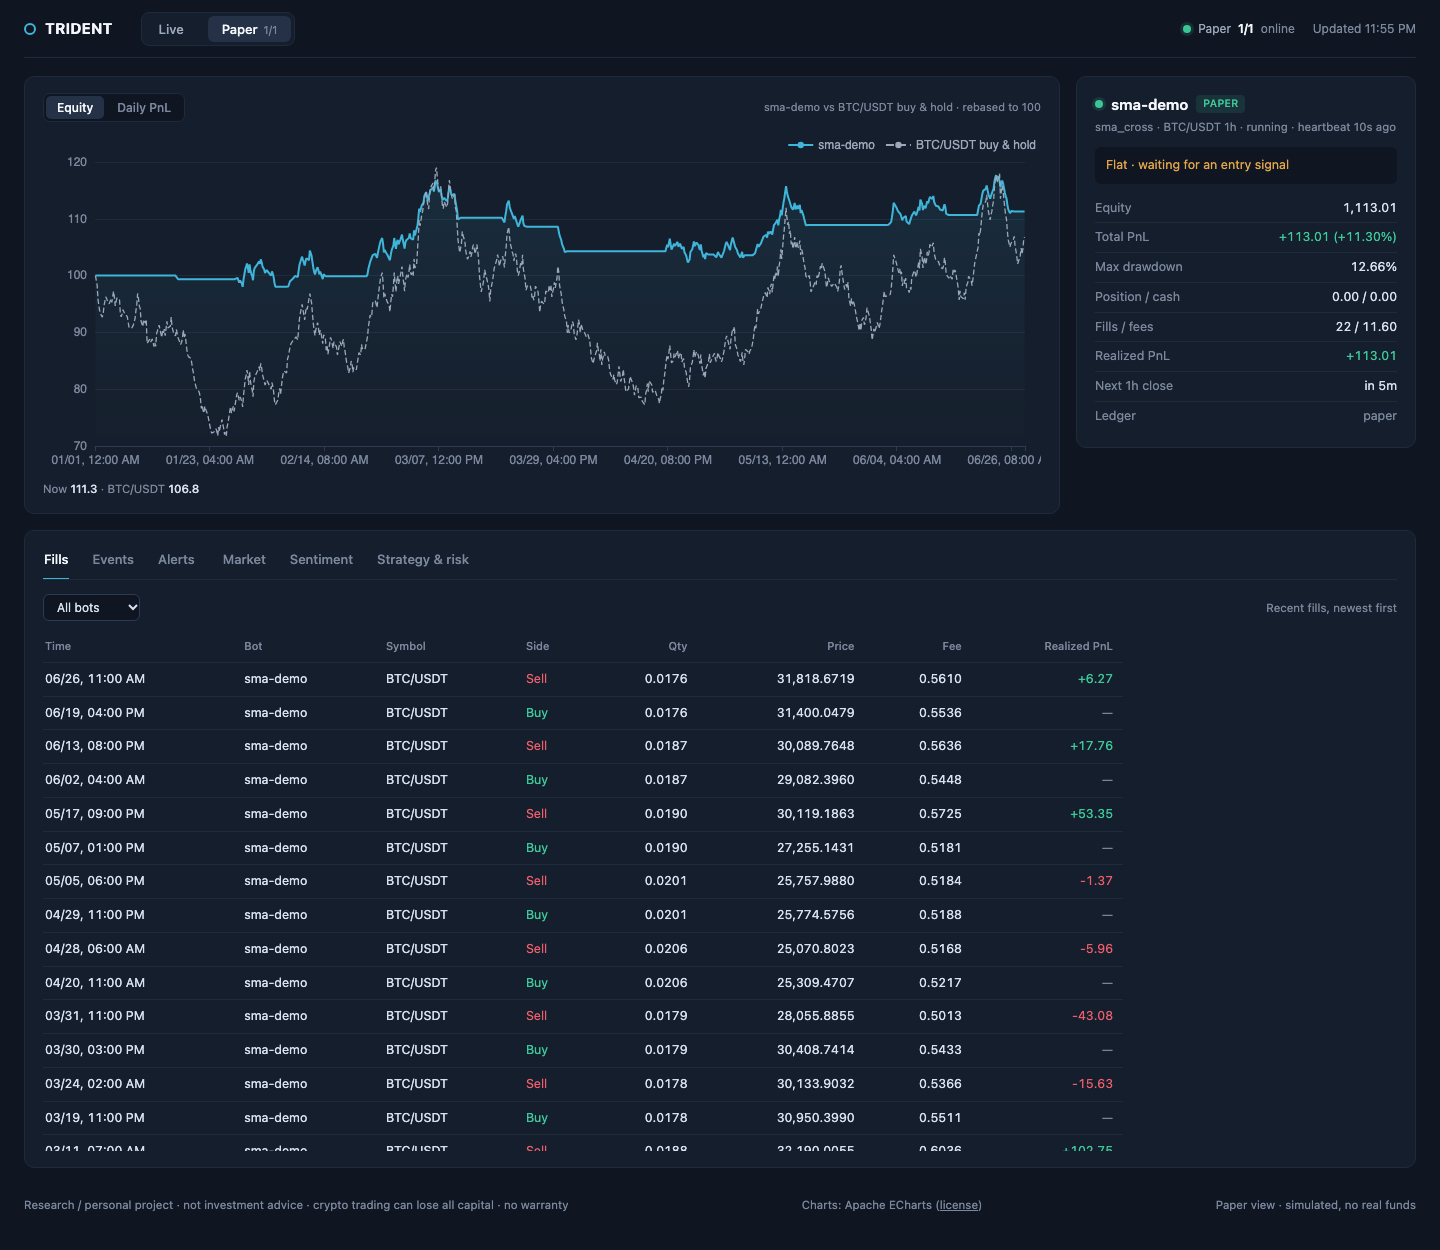
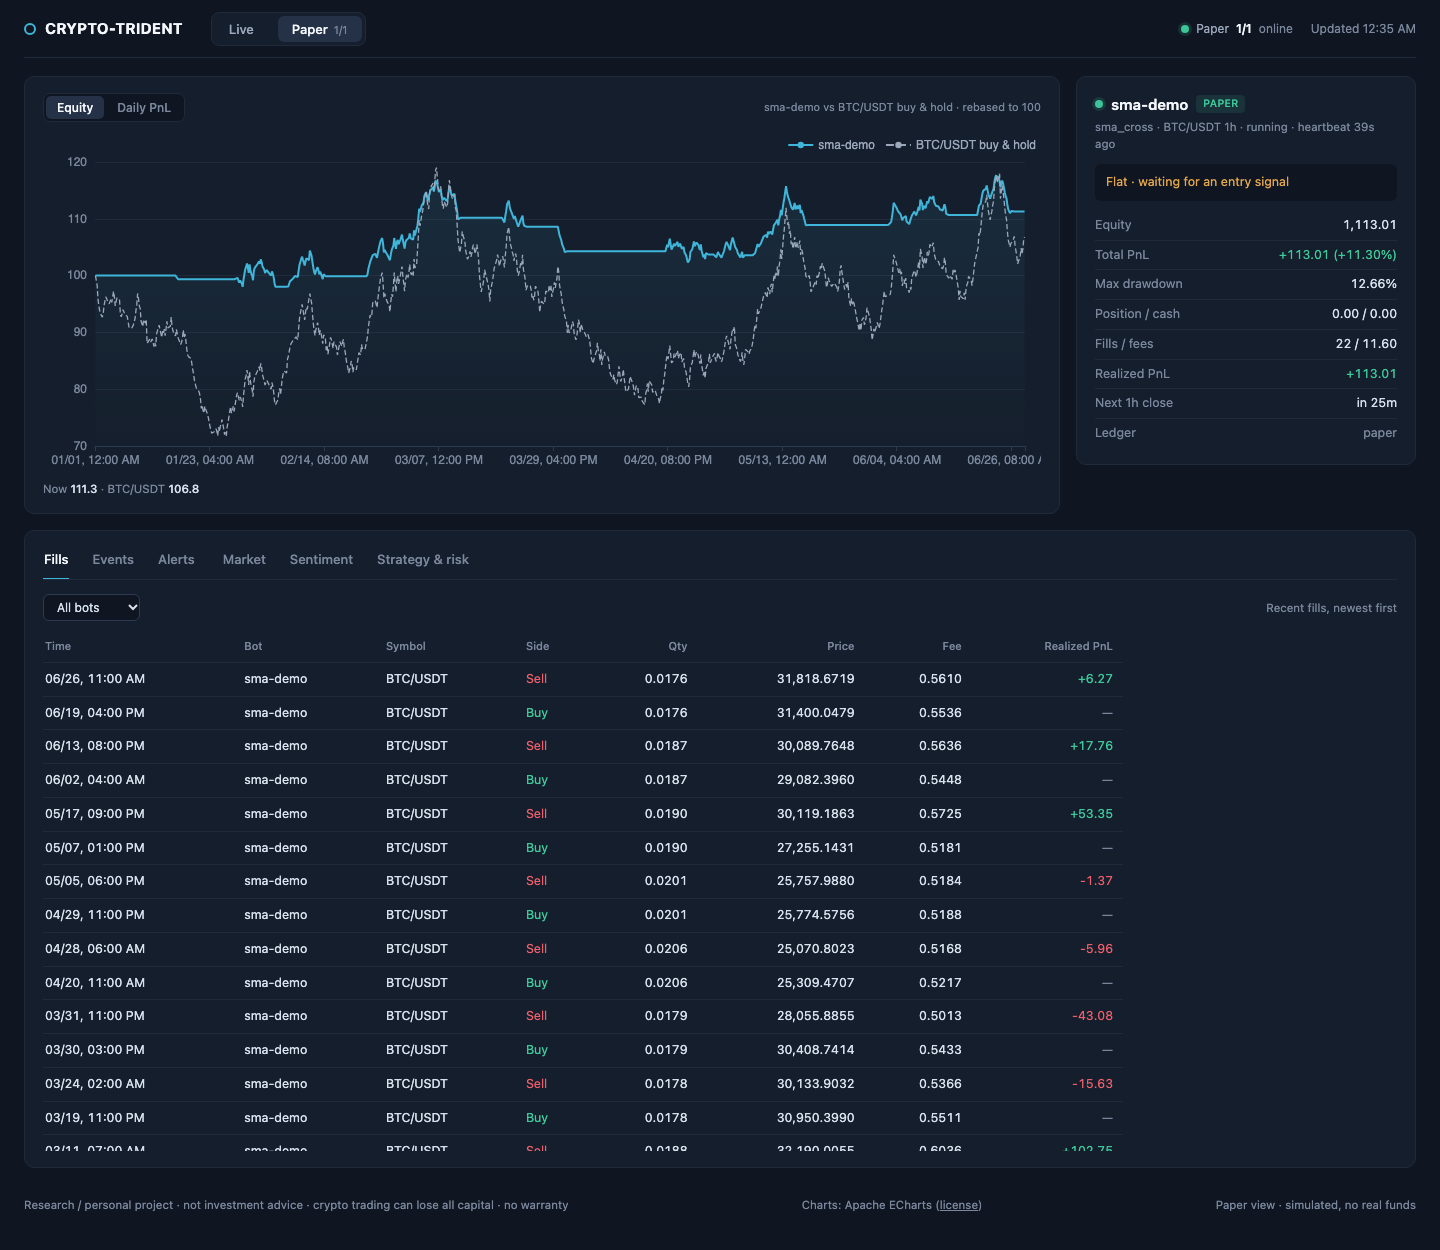
Dashboard: crypto-trident branding, two-column strategy panel
Brand the dashboard as crypto-trident to match the repository name, place
global risk limits and strategy cards side by side on wide screens, label
the order-rate limit as per bar (it is keyed on bar timestamps), and
refresh the README screenshots (synthetic demo data).

diff --git a/monitor/static/app.css b/monitor/static/app.css
@@ -169,7 +169,7 @@
   .note b { color:var(--text); }
 
   /* strategy cards */
-  .strategy-cards { display:grid; grid-template-columns:repeat(auto-fill,minmax(320px,1fr)); gap:12px; }
+  .strategy-cards { display:grid; grid-template-columns:repeat(auto-fit,minmax(320px,1fr)); gap:12px; }
   .strat-card { background:var(--bg); border:1px solid var(--line); border-radius:var(--r-sm); padding:12px 14px; }
   .strat-card .hd { display:flex; align-items:center; gap:8px; }
   .strat-card .hd .nm { font-weight:600; color:var(--bright); white-space:nowrap; }
@@ -188,6 +188,7 @@
   .footer { margin-top:28px; color:var(--muted); font-size:11.5px; display:flex; justify-content:space-between; gap:12px; flex-wrap:wrap; }
 
   @media (max-width:1100px) {
+    .strat-split { grid-template-columns:1fr; }
     .kpis { grid-template-columns:repeat(3,1fr); }
     .kpi:nth-child(4) { border-left:none; }
     .kpi:nth-child(n+4) { border-top:1px solid var(--line); }
@@ -214,5 +215,8 @@
   #sentChart { height:110px; }
   .sub-h.mt0 { margin-top:0; }
   #factorsBox { max-width:720px; }
+  /* Strategy & risk panel: limits on the left, strategy cards on the right */
+  .strat-split { display:grid; grid-template-columns:minmax(0,1fr) minmax(0,1fr); gap:24px; align-items:start; }
+  .strat-split #factorsBox { max-width:none; }
   a.inherit { color:inherit; }
   [hidden] { display:none !important; }

diff --git a/monitor/static/dashboard.html b/monitor/static/dashboard.html
@@ -3,13 +3,13 @@
 <head>
 <meta charset="utf-8">
 <meta name="viewport" content="width=device-width, initial-scale=1">
-<title>TRIDENT Dashboard</title>
+<title>crypto-trident Dashboard</title>
 <script src="/static/echarts.min.js"></script>
 <link rel="stylesheet" href="/static/app.css">
 </head>
 <body>
 <header class="topbar">
-  <div class="brand"><i></i><span>TRIDENT</span></div>
+  <div class="brand"><i></i><span>CRYPTO-TRIDENT</span></div>
   <div class="views">
     <button class="live" id="tabLive">Live<span class="cnt" id="tabLiveCount"></span></button>
     <button class="paper" id="tabPaper">Paper<span class="cnt" id="tabPaperCount"></span></button>
@@ -107,10 +107,16 @@
   </div>
 
   <div class="pane" id="p-strategy">
-    <div class="sub-h mt0">Global limits (every order is checked against these)</div>
-    <div id="factorsBox"></div>
-    <div class="sub-h">Strategies (logic and latest internal state)</div>
-    <div class="strategy-cards" id="strategyCards"></div>
+    <div class="strat-split">
+      <div>
+        <div class="sub-h mt0">Global limits (every order is checked against these)</div>
+        <div id="factorsBox"></div>
+      </div>
+      <div>
+        <div class="sub-h mt0">Strategies (logic and latest internal state)</div>
+        <div class="strategy-cards" id="strategyCards"></div>
+      </div>
+    </div>
   </div>
 </div>
 

diff --git a/monitor/dashboard.py b/monitor/dashboard.py
@@ -728,7 +728,7 @@ def api_strategy(_q) -> dict:
             "Max position / equity": pct("max_position_pct"),
             "Daily loss limit": f'{pct("daily_loss_pct")} -> no new entries today',
             "Max drawdown": f'{pct("max_drawdown_pct")} -> flatten and halt',
-            "Order rate": f'{risk.get("max_orders_per_minute", "n/a")}/min',
+            "Order rate": f'{risk.get("max_orders_per_minute", "n/a")} per bar',
         },
         "universe": risk.get("allowed_symbols", []),
         "fees": f'taker {fees.get("taker_bps", 0) / 100}% + slippage '
